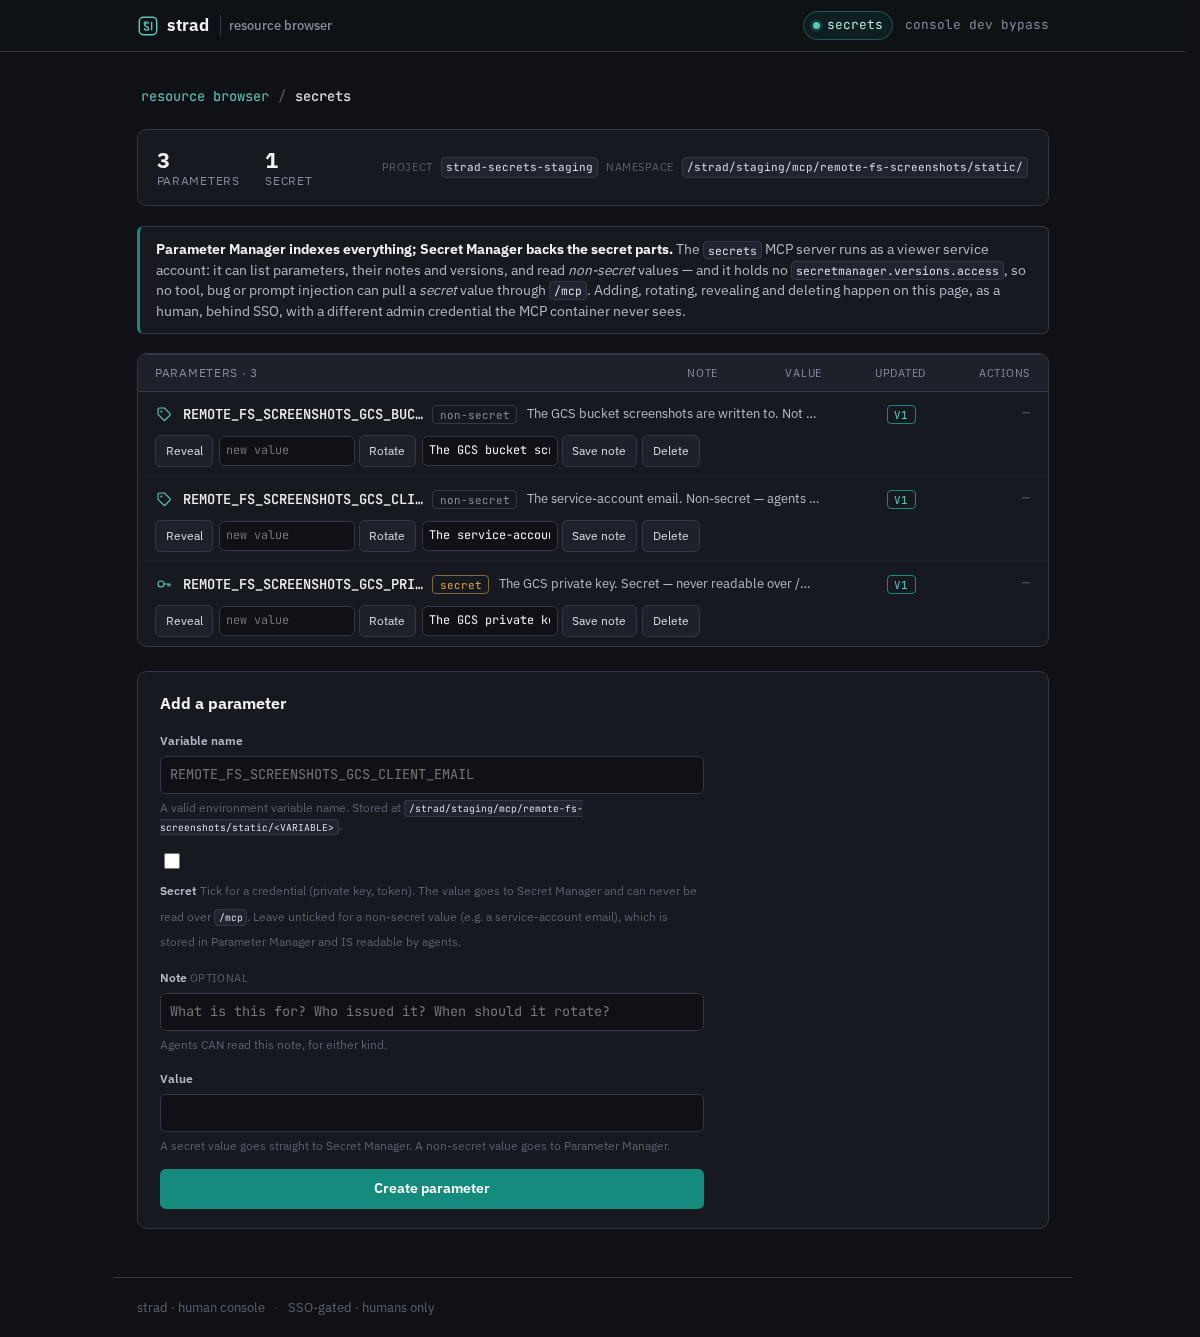
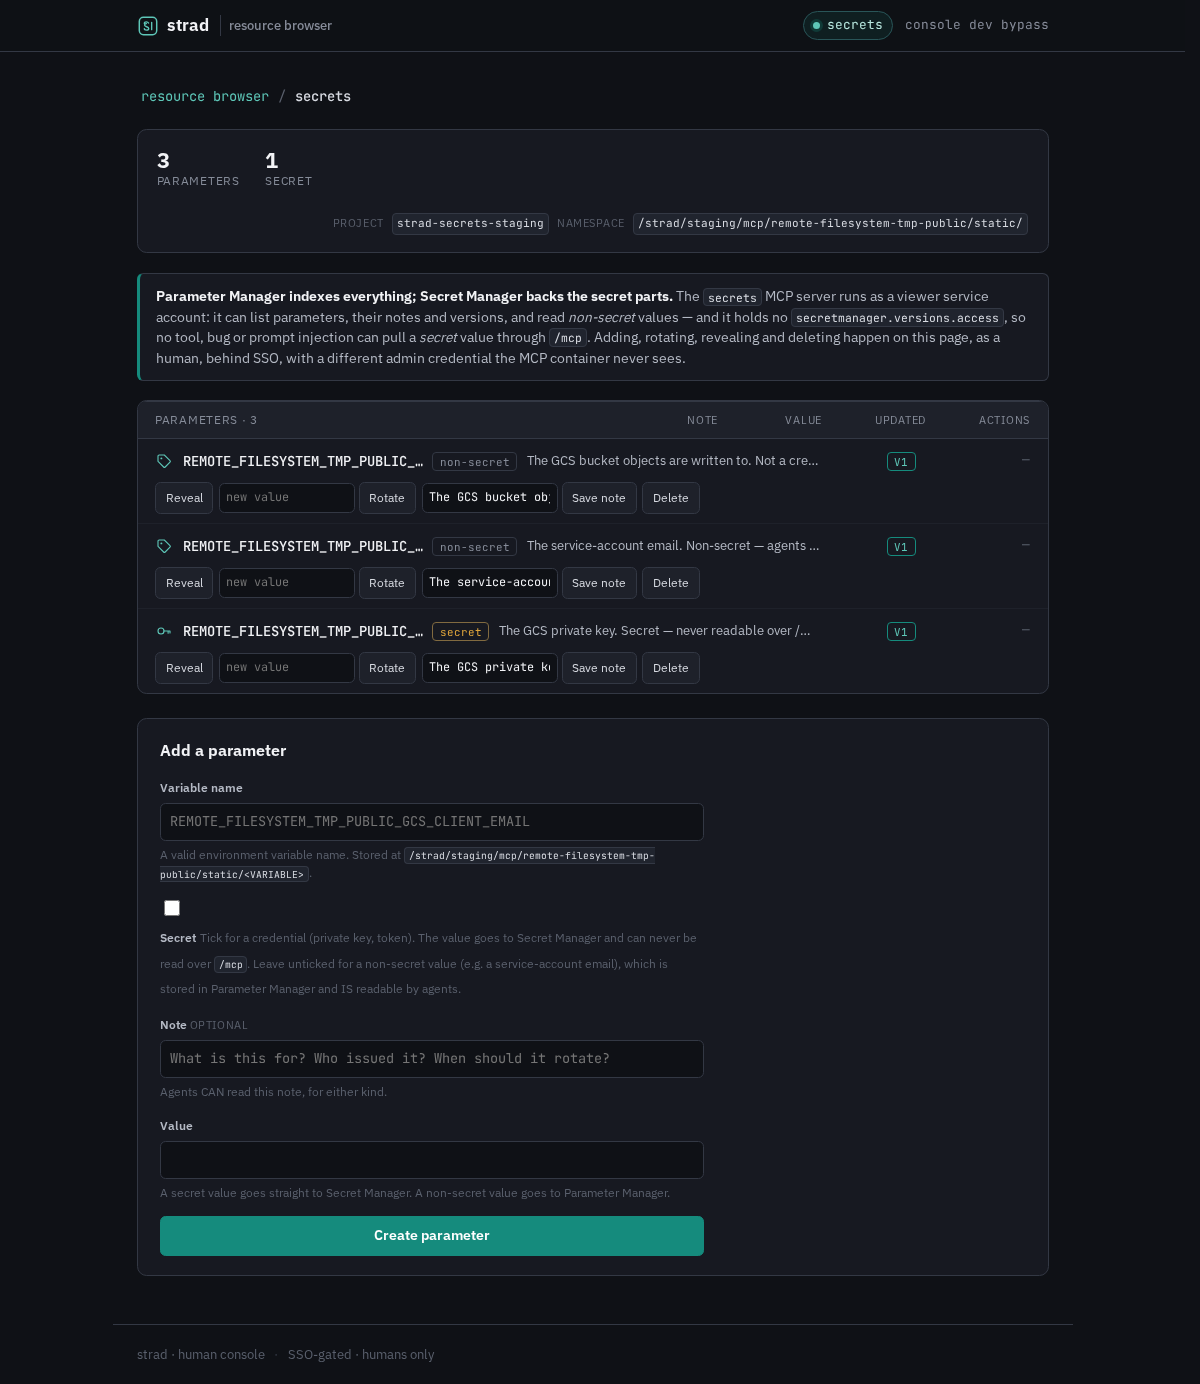
Rename remote-fs-screenshots → remote-filesystem-tmp-public (slug + REMOTE_FILESYSTEM_TMP_PUBLIC_* env prefix), refresh console screenshots
Per user request. Mechanical rename of the already-reviewed baked GCS server across
config, bundle host/smoke/Dockerfile, CI env, resolver comments, docs, example
config, tests and the committed console screenshots. Vendored upstream
(remote-filesystem) and the GCS bucket value are unchanged. The parameterId
encoding test now asserts properties rather than a brittle hardcoded hash.

diff --git a/test/appspec.params.test.ts b/test/appspec.params.test.ts
@@ -21,15 +21,15 @@ roles:
 bundles:
   - name: bundle
 servers:
-  - slug: remote-fs-screenshots
+  - slug: remote-filesystem-tmp-public
     kind: supplementary-image
     image: ghcr.io/tadasant/strad-bundle:latest
     bundle: bundle
-    path: /remote-fs-screenshots
+    path: /remote-filesystem-tmp-public
     entitlements: [admin]
     params: true
     env:
-      REMOTE_FS_SCREENSHOTS_GCS_BUCKET: "a-bucket"
+      REMOTE_FILESYSTEM_TMP_PUBLIC_GCS_BUCKET: "a-bucket"
 `);
 
 const IMAGE = {
@@ -48,14 +48,15 @@ describe("deploy-time parameter injection", () => {
       image: IMAGE,
       env: [],
       resolvedParams: {
-        "remote-fs-screenshots": {
-          REMOTE_FS_SCREENSHOTS_GCS_CLIENT_EMAIL:
+        "remote-filesystem-tmp-public": {
+          REMOTE_FILESYSTEM_TMP_PUBLIC_GCS_CLIENT_EMAIL:
             "svc@demo.iam.gserviceaccount.com",
-          REMOTE_FS_SCREENSHOTS_GCS_PRIVATE_KEY:
+          REMOTE_FILESYSTEM_TMP_PUBLIC_GCS_PRIVATE_KEY:
             "-----BEGIN KEY-----secret-----END-----",
           // A resolved value that literally contains `${...}` must survive
           // verbatim — it is NOT an unresolved ref (resolveMap must not touch it).
-          REMOTE_FS_SCREENSHOTS_GCS_PASSPHRASE: "pass${GCS_BUCKET}phrase",
+          REMOTE_FILESYSTEM_TMP_PUBLIC_GCS_PASSPHRASE:
+            "pass${GCS_BUCKET}phrase",
         },
       },
     });
@@ -64,10 +65,10 @@ describe("deploy-time parameter injection", () => {
     const bundle = spec.services.find((s) => s.name === "bundle")!;
 
     const email = bundle.envs.find(
-      (e) => e.key === "REMOTE_FS_SCREENSHOTS_GCS_CLIENT_EMAIL",
+      (e) => e.key === "REMOTE_FILESYSTEM_TMP_PUBLIC_GCS_CLIENT_EMAIL",
     );
     const key = bundle.envs.find(
-      (e) => e.key === "REMOTE_FS_SCREENSHOTS_GCS_PRIVATE_KEY",
+      (e) => e.key === "REMOTE_FILESYSTEM_TMP_PUBLIC_GCS_PRIVATE_KEY",
     );
 
     expect(email?.value).toBe("svc@demo.iam.gserviceaccount.com");
@@ -75,17 +76,22 @@ describe("deploy-time parameter injection", () => {
     expect(key?.type).toBe("SECRET");
     // The `${...}`-containing value is passed through untouched (not ref-resolved).
     expect(
-      bundle.envs.find((e) => e.key === "REMOTE_FS_SCREENSHOTS_GCS_PASSPHRASE")
-        ?.value,
+      bundle.envs.find(
+        (e) => e.key === "REMOTE_FILESYSTEM_TMP_PUBLIC_GCS_PASSPHRASE",
+      )?.value,
     ).toBe("pass${GCS_BUCKET}phrase");
     // The literal bucket from env: is still there, alongside the resolved params.
     expect(
-      bundle.envs.some((e) => e.key === "REMOTE_FS_SCREENSHOTS_GCS_BUCKET"),
+      bundle.envs.some(
+        (e) => e.key === "REMOTE_FILESYSTEM_TMP_PUBLIC_GCS_BUCKET",
+      ),
     ).toBe(true);
 
     // Scoped to the bundle: the resolved secret value never lands on core.
     expect(
-      core.envs.some((e) => e.key === "REMOTE_FS_SCREENSHOTS_GCS_PRIVATE_KEY"),
+      core.envs.some(
+        (e) => e.key === "REMOTE_FILESYSTEM_TMP_PUBLIC_GCS_PRIVATE_KEY",
+      ),
     ).toBe(false);
   });
 
@@ -101,7 +107,7 @@ describe("deploy-time parameter injection", () => {
     // Only the literal bucket — the creds are resolved at deploy, deferred here.
     expect(
       bundle.envs.some(
-        (e) => e.key === "REMOTE_FS_SCREENSHOTS_GCS_CLIENT_EMAIL",
+        (e) => e.key === "REMOTE_FILESYSTEM_TMP_PUBLIC_GCS_CLIENT_EMAIL",
       ),
     ).toBe(false);
   });

diff --git a/servers/bundle/host/src/index.ts b/servers/bundle/host/src/index.ts
@@ -149,18 +149,18 @@ async function buildMounts(): Promise<Mount[]> {
   });
 
   mounts.push({
-    // The strad slug is `remote-fs-screenshots` (it stores screenshots on a GCS
+    // The strad slug is `remote-filesystem-tmp-public` (it stores screenshots on a GCS
     // bucket); the vendored upstream is still pulsemcp's `remote-filesystem`.
-    slug: "remote-fs-screenshots",
+    slug: "remote-filesystem-tmp-public",
     tree: "bundle-api",
     serverName: "remote-filesystem-mcp-server",
     capabilities: { resources: {}, tools: {} },
-    // THE collision this collapse had to solve. gcs and remote-fs-screenshots
+    // THE collision this collapse had to solve. gcs and remote-filesystem-tmp-public
     // both read `GCS_BUCKET` from the environment, and they point at DIFFERENT
     // buckets — which is why gcs used to need a component of its own. One process
-    // cannot hold two values of one variable, so remote-fs-screenshots stops
+    // cannot hold two values of one variable, so remote-filesystem-tmp-public stops
     // reading the environment at all: we hand it an explicit client built from
-    // its own slug-namespaced vars (REMOTE_FS_SCREENSHOTS_GCS_*). No collision.
+    // its own slug-namespaced vars (REMOTE_FILESYSTEM_TMP_PUBLIC_GCS_*). No collision.
     register: (s) => api.remoteFs.registerHandlers(s, remoteFsClientFactory()),
   });
 
@@ -295,24 +295,24 @@ async function loadApiTree(): Promise<ApiTree> {
   };
 }
 
-/** remote-fs-screenshots' GCS client, built from ITS OWN env names. See the mount. */
+/** remote-filesystem-tmp-public' GCS client, built from ITS OWN env names. See the mount. */
 function remoteFsClientFactory(): () => unknown {
   return () => {
-    const bucket = process.env.REMOTE_FS_SCREENSHOTS_GCS_BUCKET;
+    const bucket = process.env.REMOTE_FILESYSTEM_TMP_PUBLIC_GCS_BUCKET;
     if (!bucket) {
       throw new Error(
-        "REMOTE_FS_SCREENSHOTS_GCS_BUCKET must be configured. (In this bundle, " +
-          "remote-fs-screenshots does NOT read GCS_BUCKET — that name belongs to " +
+        "REMOTE_FILESYSTEM_TMP_PUBLIC_GCS_BUCKET must be configured. (In this bundle, " +
+          "remote-filesystem-tmp-public does NOT read GCS_BUCKET — that name belongs to " +
           "the gcs server, which points at a different bucket.)",
       );
     }
     return new remoteFsGcsClient({
       bucket,
-      projectId: process.env.REMOTE_FS_SCREENSHOTS_GCS_PROJECT_ID,
-      clientEmail: process.env.REMOTE_FS_SCREENSHOTS_GCS_CLIENT_EMAIL,
-      privateKey: process.env.REMOTE_FS_SCREENSHOTS_GCS_PRIVATE_KEY,
-      rootPath: process.env.REMOTE_FS_SCREENSHOTS_GCS_ROOT_PATH,
-      makePublic: process.env.REMOTE_FS_SCREENSHOTS_GCS_MAKE_PUBLIC === "true",
+      projectId: process.env.REMOTE_FILESYSTEM_TMP_PUBLIC_GCS_PROJECT_ID,
+      clientEmail: process.env.REMOTE_FILESYSTEM_TMP_PUBLIC_GCS_CLIENT_EMAIL,
+      privateKey: process.env.REMOTE_FILESYSTEM_TMP_PUBLIC_GCS_PRIVATE_KEY,
+      rootPath: process.env.REMOTE_FILESYSTEM_TMP_PUBLIC_GCS_ROOT_PATH,
+      makePublic: process.env.REMOTE_FILESYSTEM_TMP_PUBLIC_GCS_MAKE_PUBLIC === "true",
     });
   };
 }

diff --git a/src/ui/resolve.ts b/src/ui/resolve.ts
@@ -17,7 +17,7 @@ import {
  *
  * This is deliberately a small dispatch table, not a hardcode: a server "has a
  * GCS view" because its config declares a GCS bucket, not because its slug is
- * "gcs". A second GCS-backed server (remote-fs-screenshots is one) lights up the same
+ * "gcs". A second GCS-backed server (remote-filesystem-tmp-public is one) lights up the same
  * view with zero new code. Non-GCS servers resolve to `no_viewer` today — the
  * seam where other server kinds grow their own views later.
  */
@@ -63,7 +63,7 @@ export type ServerView =
       tokenUrl?: string;
     };
 
-/** The env keys the two GCS-backed servers use (gcs and remote-fs-screenshots). */
+/** The env keys the two GCS-backed servers use (gcs and remote-filesystem-tmp-public). */
 const GCS_ENV = {
   bucket: "GCS_BUCKET",
   prefix: "GCS_ROOT_PATH",
@@ -100,10 +100,10 @@ const SECRETS_ENV = {
 
 /**
  * A server's env, with any SLUG-NAMESPACED variable also visible under its bare
- * name (`REMOTE_FS_SCREENSHOTS_GCS_BUCKET` -> `GCS_BUCKET`).
+ * name (`REMOTE_FILESYSTEM_TMP_PUBLIC_GCS_BUCKET` -> `GCS_BUCKET`).
  *
  * Namespacing exists because siblings now share a container: `gcs` and
- * `remote-fs-screenshots` both read `GCS_BUCKET`, and they point at DIFFERENT
+ * `remote-filesystem-tmp-public` both read `GCS_BUCKET`, and they point at DIFFERENT
  * buckets, so one of them had to move off the bare name (see the bundle host).
  * The bare name still wins if both are set — the namespaced form is a fallback,
  * not an override — which keeps a server that never had a sibling unchanged.
@@ -237,7 +237,7 @@ function resolveGcsView(
 /**
  * Two credential conventions, both used by the bundle-api fleet:
  *   - gcs:               GCS_SERVICE_ACCOUNT_KEY_JSON  (a full key file, inline)
- *   - remote-fs-screenshots: GCS_CLIENT_EMAIL + GCS_PRIVATE_KEY (two fields only)
+ *   - remote-filesystem-tmp-public: GCS_CLIENT_EMAIL + GCS_PRIVATE_KEY (two fields only)
  * Support both so the same view scopes to either server.
  */
 function resolveAccount(

diff --git a/src/ui/render.ts b/src/ui/render.ts
@@ -383,7 +383,7 @@ ${listing}
     <label class="field">
       <span class="field-l">Variable name</span>
       <input class="in" type="text" name="variable" required autocapitalize="off" autocomplete="off"
-             pattern="[A-Za-z_][A-Za-z0-9_]*" placeholder="REMOTE_FS_SCREENSHOTS_GCS_CLIENT_EMAIL" />
+             pattern="[A-Za-z_][A-Za-z0-9_]*" placeholder="REMOTE_FILESYSTEM_TMP_PUBLIC_GCS_CLIENT_EMAIL" />
       <span class="field-h">A valid environment variable name. Stored at <code>${esc(defaultNs)}&lt;VARIABLE&gt;</code>.</span>
     </label>
     <label class="field field-check">

diff --git a/test/staging-config.test.ts b/test/staging-config.test.ts
@@ -51,8 +51,8 @@ describe("staging config", () => {
           "TAILSCALE_API_KEY",
           "MONARCH_SESSION_TOKEN",
           "SERPAPI_API_KEY",
-          "REMOTE_FS_SCREENSHOTS_GCS_CLIENT_EMAIL",
-          "REMOTE_FS_SCREENSHOTS_GCS_PRIVATE_KEY",
+          "REMOTE_FILESYSTEM_TMP_PUBLIC_GCS_CLIENT_EMAIL",
+          "REMOTE_FILESYSTEM_TMP_PUBLIC_GCS_PRIVATE_KEY",
           "GCS_PULSEMCP_SERVICE_ACCOUNT_KEY_JSON",
           "GMAIL_TADAS_SERVICE_ACCOUNT_CLIENT_EMAIL",
           "GMAIL_TADAS_SERVICE_ACCOUNT_PRIVATE_KEY",

diff --git a/test/parameters.store.test.ts b/test/parameters.store.test.ts
@@ -19,9 +19,9 @@ import {
  */
 
 const ENV = "staging";
-const SLUG = "remote-fs-screenshots";
-const EMAIL_VAR = "REMOTE_FS_SCREENSHOTS_GCS_CLIENT_EMAIL";
-const KEY_VAR = "REMOTE_FS_SCREENSHOTS_GCS_PRIVATE_KEY";
+const SLUG = "remote-filesystem-tmp-public";
+const EMAIL_VAR = "REMOTE_FILESYSTEM_TMP_PUBLIC_GCS_CLIENT_EMAIL";
+const KEY_VAR = "REMOTE_FILESYSTEM_TMP_PUBLIC_GCS_PRIVATE_KEY";
 const emailPath = parameterPath(ENV, SLUG, EMAIL_VAR);
 const keyPath = parameterPath(ENV, SLUG, KEY_VAR);
 

diff --git a/servers/secrets/shared/src/tools.ts b/servers/secrets/shared/src/tools.ts
@@ -88,7 +88,7 @@ export function toolDefinitions(config: SecretsConfig) {
           name: {
             type: "string",
             description:
-              "The canonical path, e.g. \"/strad/staging/mcp/remote-fs-screenshots/static/REMOTE_FS_SCREENSHOTS_GCS_CLIENT_EMAIL\".",
+              "The canonical path, e.g. \"/strad/staging/mcp/remote-filesystem-tmp-public/static/REMOTE_FILESYSTEM_TMP_PUBLIC_GCS_CLIENT_EMAIL\".",
           },
         },
         required: ["name"],

diff --git a/test/ui.secrets.test.ts b/test/ui.secrets.test.ts
@@ -321,7 +321,7 @@ describe("the parameters console, end to end", () => {
     expect(pattern).toBeTruthy();
     expect(() => new RegExp(pattern!, "v")).not.toThrow();
     const re = new RegExp(`^${pattern}$`, "v");
-    expect(re.test("REMOTE_FS_SCREENSHOTS_GCS_CLIENT_EMAIL")).toBe(true);
+    expect(re.test("REMOTE_FILESYSTEM_TMP_PUBLIC_GCS_CLIENT_EMAIL")).toBe(true);
     expect(re.test("1bad")).toBe(false);
   });
 });

diff --git a/docs/src/content/docs/servers/adding.md b/docs/src/content/docs/servers/adding.md
@@ -152,20 +152,20 @@ Set `params: true`, and everything a human has stored under
 environment:
 
 ```yaml
-- slug: remote-fs-screenshots
+- slug: remote-filesystem-tmp-public
   kind: supplementary-image
   image: ghcr.io/tadasant/strad-bundle:latest
   bundle: bundle
-  path: /remote-fs-screenshots
+  path: /remote-filesystem-tmp-public
   entitlements: [admin]
-  params: true # resolve /strad/{env}/mcp/remote-fs-screenshots/static/* into env
+  params: true # resolve /strad/{env}/mcp/remote-filesystem-tmp-public/static/* into env
   env:
-    REMOTE_FS_SCREENSHOTS_GCS_BUCKET: "my-screenshots" # a literal is fine; not a secret
+    REMOTE_FILESYSTEM_TMP_PUBLIC_GCS_BUCKET: "my-screenshots" # a literal is fine; not a secret
 ```
 
 The two credentials this server needs — a non-secret
-`REMOTE_FS_SCREENSHOTS_GCS_CLIENT_EMAIL` and a secret
-`REMOTE_FS_SCREENSHOTS_GCS_PRIVATE_KEY` — are **not** in the config. A human sets
+`REMOTE_FILESYSTEM_TMP_PUBLIC_GCS_CLIENT_EMAIL` and a secret
+`REMOTE_FILESYSTEM_TMP_PUBLIC_GCS_PRIVATE_KEY` — are **not** in the config. A human sets
 them once in `/ui/secrets`, and the resolver injects them: for a supplementary image
 at deploy time (`render-spec`, with the `STRAD_PARAMS_*` resolver credential),
 scoped onto that bundle. The container holds no cloud credential, exactly as with a
@@ -192,7 +192,7 @@ and twenty-four `supplementary-image` entries sharing ONE bundle over the privat
 network — which resolve onto the bundle image's fifteen mounts, because every
 read-only / read-write pair is two entries on one path. One of those, `secrets`,
 is also the worked example for the split `env:` / `consoleEnv:` credentials from
-step 4b, and `remote-fs-screenshots` is the `params: true` example from step 4c. It
+step 4b, and `remote-filesystem-tmp-public` is the `params: true` example from step 4c. It
 also keeps a deliberately narrow `echo-only` role, so
 the [424 fail-closed path](/intro/concepts/#the-424-contract) stays exercised. Read
 it alongside

diff --git a/servers/bundle/README.md b/servers/bundle/README.md
@@ -3,7 +3,7 @@
 Fifteen MCP servers. One container. One Chromium. One `op` binary.
 
 ```
-/slack /serpapi-hotels /tailscale /monarch-money /gcs /remote-fs-screenshots
+/slack /serpapi-hotels /tailscale /monarch-money /gcs /remote-filesystem-tmp-public
 /google-flights /gmail /google-calendar /google-docs /onepassword /secrets
 /good-eggs /fetchpet /pointsyeah
 ```
@@ -38,7 +38,7 @@ different places:
 
 | tree | source | servers |
 | --- | --- | --- |
-| `bundle-api` | `servers/bundle-api` | slack, serpapi-hotels, tailscale, monarch-money, gcs, remote-fs-screenshots, google-flights |
+| `bundle-api` | `servers/bundle-api` | slack, serpapi-hotels, tailscale, monarch-money, gcs, remote-filesystem-tmp-public, google-flights |
 | `bundle-google` | `images/bundle-google` | gmail, google-calendar, google-docs |
 | `onepassword` | `servers/onepassword` | onepassword (+ the `op` CLI, baked in) |
 | `secrets` | `servers/secrets` | secrets (Google Parameter + Secret Manager viewer) |
@@ -77,14 +77,14 @@ instance in `infra/strad.staging.yaml`.
 
 ## The GCS_BUCKET collision
 
-`gcs` and `remote-fs-screenshots` **both read `GCS_BUCKET`**, and they point at
+`gcs` and `remote-filesystem-tmp-public` **both read `GCS_BUCKET`**, and they point at
 different buckets. That is why `gcs` used to need a component to itself, and it is
 the one thing gateway-side capability does *not* solve — it is a credential, not a
 capability.
 
-One process cannot hold two values of one variable, so `remote-fs-screenshots`
+One process cannot hold two values of one variable, so `remote-filesystem-tmp-public`
 stops reading the environment: the host hands it an explicit client built from
-`REMOTE_FS_SCREENSHOTS_GCS_*`. `gcs` keeps the bare names.
+`REMOTE_FILESYSTEM_TMP_PUBLIC_GCS_*`. `gcs` keeps the bare names.
 
 ## The one server whose safety is not in this image
 

diff --git a/docs/src/content/docs/limitations.md b/docs/src/content/docs/limitations.md
@@ -179,7 +179,7 @@ with GCP access to provision: a dedicated project holding only the
 `/strad/staging/mcp/*` parameters, the three service accounts (viewer, admin,
 resolver) and their keys seeded as `strad-staging-*` secrets, and the seeded
 parameter values. Until the **resolver** service account exists, a `params: true`
-supplementary server — `remote-fs-screenshots` — boots **without** its resolved
+supplementary server — `remote-filesystem-tmp-public` — boots **without** its resolved
 parameters and degrades gracefully rather than failing the deploy.
 
 The posture is intact throughout: the resolver credential runs at **deploy time**
@@ -188,8 +188,8 @@ cloud credential" still holds — the resolved values reach the bundle as ordina
 SECRET env vars, exactly like every other secret.
 
 **Undo:** provision the project, the three service accounts and their keys, then set
-`REMOTE_FS_SCREENSHOTS_GCS_CLIENT_EMAIL` (non-secret) and
-`REMOTE_FS_SCREENSHOTS_GCS_PRIVATE_KEY` (secret) in the `/ui/secrets` console. See
+`REMOTE_FILESYSTEM_TMP_PUBLIC_GCS_CLIENT_EMAIL` (non-secret) and
+`REMOTE_FILESYSTEM_TMP_PUBLIC_GCS_PRIVATE_KEY` (secret) in the `/ui/secrets` console. See
 `HACKS.md` #25 for the full checklist.
 
 ### 3 & 2b. Staging's first deploy came from an agent session, and CI deploys are merge-gated
@@ -264,7 +264,7 @@ goes keyless, then delete `GCP_SA_KEY` from both repos.
 The one-time steps that clear most of the list above:
 
 - The secrets/parameters GCP project plus its three service accounts (viewer,
-  admin, resolver) and seeded keys, then the `remote-fs-screenshots` values in
+  admin, resolver) and seeded keys, then the `remote-filesystem-tmp-public` values in
   `/ui/secrets` — clears **#25**.
 - Google OAuth credentials (`GOOGLE_CLIENT_ID` / `GOOGLE_CLIENT_SECRET`) — clears
   **#2** and **#20**.

diff --git a/HACKS.md b/HACKS.md
@@ -655,7 +655,7 @@ Posture nuance worth stating plainly: the resolver credential runs at DEPLOY tim
 (in CI / `render-spec`), NOT in the container, so "the running container holds no
 cloud credential" still holds — the resolved values reach the bundle as ordinary
 SECRET env vars, exactly like every other secret. Until the resolver service
-account exists, a `params: true` supplementary server (`remote-fs-screenshots`)
+account exists, a `params: true` supplementary server (`remote-filesystem-tmp-public`)
 boots without its resolved parameters and degrades gracefully.
 
 ## What the human still needs to provision
@@ -669,8 +669,8 @@ A consolidated checklist, cross-referenced above:
       Secret Manager admin) → `strad-staging-SECRETS_ADMIN_KEY_JSON`; a RESOLVER
       SA (read values of both stores) → `strad-staging-STRAD_PARAMS_RESOLVER_SERVICE_ACCOUNT_KEY_JSON`;
       plus `strad-staging-SECRETS_PROJECT_ID`. Then set both
-      `REMOTE_FS_SCREENSHOTS_GCS_CLIENT_EMAIL` (non-secret) and
-      `REMOTE_FS_SCREENSHOTS_GCS_PRIVATE_KEY` (secret) in the `/ui/secrets` console.
+      `REMOTE_FILESYSTEM_TMP_PUBLIC_GCS_CLIENT_EMAIL` (non-secret) and
+      `REMOTE_FILESYSTEM_TMP_PUBLIC_GCS_PRIVATE_KEY` (secret) in the `/ui/secrets` console.
 
 - [ ] **Google OAuth**: `GOOGLE_CLIENT_ID` / `GOOGLE_CLIENT_SECRET` as
       `strad-staging-*` (and `strad-prod-*`) secrets → removes hack #2.
